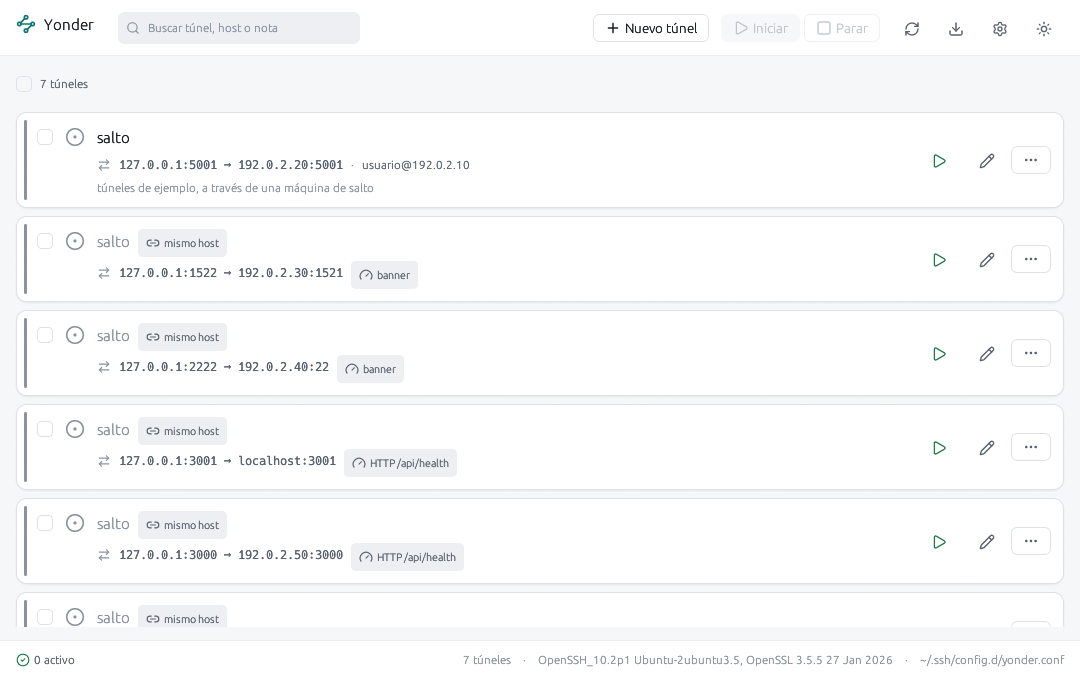
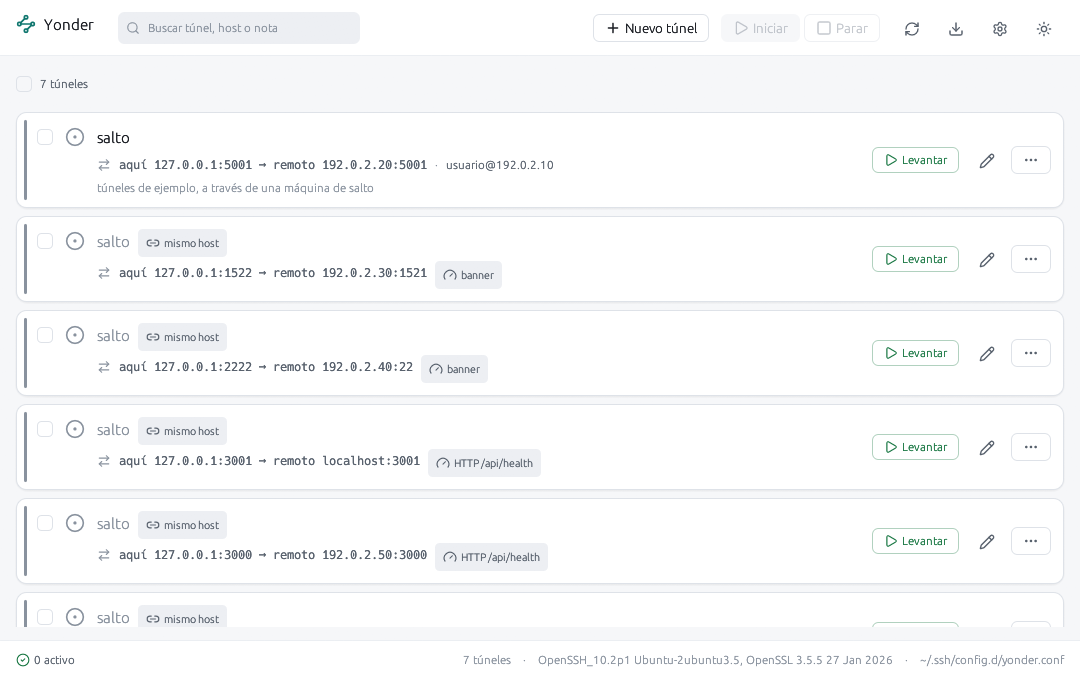
Nombra cada punta del reenvío y pone texto en los botones de fila
«127.0.0.1:3001 → localhost:3001» se lee como si los dos extremos fueran
esta máquina, cuando el de la derecha lo resuelve el servidor del otro
lado. La fila pasa a decir «aquí … → remoto …».

No se sustituye «localhost» por el nombre del host, que era la salida
cómoda: afirmaría que ese puerto es alcanzable en esa dirección, y con un
servicio enganchado a un alias de IP no tiene por qué serlo. Es justo la
distinción que separa un túnel sano de uno que abre el puerto sin
transportar nada, así que el valor literal del fichero se conserva y solo
se añade de quién es.

Va en un método aparte de «descripcion»: esa la consumen el registro y el
buscador, y meterle estas dos palabras haría que teclear «remoto»
encontrase todos los túneles.

Los botones de acción de la fila llevan ahora su palabra. Levantar y
bajar compartían un icono cuadrado cuyo significado solo aparecía en el
globo de ayuda, y una acción que hay que descubrir pasando el ratón por
encima es una acción que no está.

diff --git a/src/ui/lista.rs b/src/ui/lista.rs
@@ -234,7 +234,7 @@ fn fila(
                         iconos::PEQUENO,
                         tema.paleta.texto_tenue,
                     );
-                    ui.label(tema::mono(&tema, tunel.reenvio.descripcion()));
+                    ui.label(tema::mono(&tema, tunel.reenvio.descripcion_orientada()));
                     if tunel.reenvio.salud.atraviesa_el_tunel() {
                         // Que se vea qué se está comprobando: no es lo mismo
                         // «el puerto está abierto» que «el servicio responde».
@@ -381,57 +381,78 @@ fn acciones_de_fila(
 
     ui.add_space(tema.escala.xs);
 
+    // Las acciones llevan su palabra al lado del icono: en una lista de túneles
+    // el mismo cuadrado significa «baja este» o «deja de reintentar» según el
+    // estado, y eso no se adivina de un vistazo. La etiqueta es la corta; el
+    // matiz entero queda en el globo de ayuda.
     match estado.estado {
         Estado::Definido => {
-            if iconos::boton(ui, Icono::ARRANCAR, tema.paleta.exito, "Levantar").clicked() {
+            if widgets::boton_de_fila(ui, tema, Icono::ARRANCAR, tema.paleta.exito, "Levantar")
+                .on_hover_text("Abrir la conexión y establecer este reenvío")
+                .clicked()
+            {
                 acciones.push(Accion::Levantar(id));
             }
         }
         Estado::Fallido => {
-            if iconos::boton(ui, Icono::REINTENTAR, tema.paleta.error, "Reintentar ahora").clicked()
+            if widgets::boton_de_fila(ui, tema, Icono::REINTENTAR, tema.paleta.error, "Reintentar")
+                .on_hover_text("Reintentar ahora")
+                .clicked()
             {
                 acciones.push(Accion::Reintentar(id));
             }
         }
         Estado::Reintentando => {
-            if iconos::boton(
+            if widgets::boton_de_fila(
                 ui,
+                tema,
                 Icono::PARAR,
                 tema.paleta.texto_secundario,
-                "Dejar de intentarlo",
+                "Parar",
             )
+            .on_hover_text("Dejar de intentarlo")
             .clicked()
             {
                 acciones.push(Accion::Bajar(id.clone()));
             }
-            if iconos::boton(
-                ui,
-                Icono::RAYO,
-                tema.paleta.info,
-                "Reintentar ya, sin esperar",
-            )
-            .clicked()
+            if widgets::boton_de_fila(ui, tema, Icono::RAYO, tema.paleta.info, "Ahora")
+                .on_hover_text("Reintentar ya, sin esperar al siguiente intento")
+                .clicked()
             {
                 acciones.push(Accion::Reintentar(id));
             }
         }
         Estado::Degradado => {
-            if iconos::boton(ui, Icono::PARAR, tema.paleta.texto_secundario, "Bajar").clicked() {
+            if widgets::boton_de_fila(
+                ui,
+                tema,
+                Icono::PARAR,
+                tema.paleta.texto_secundario,
+                "Bajar",
+            )
+            .on_hover_text("Cerrar este reenvío")
+            .clicked()
+            {
                 acciones.push(Accion::Bajar(id.clone()));
             }
-            if iconos::boton(
-                ui,
-                Icono::REINTENTAR,
-                tema.paleta.aviso,
-                "Reparar el reenvío",
-            )
-            .clicked()
+            if widgets::boton_de_fila(ui, tema, Icono::REINTENTAR, tema.paleta.aviso, "Reparar")
+                .on_hover_text("Rehacer el reenvío sin cerrar la conexión")
+                .clicked()
             {
                 acciones.push(Accion::Reintentar(id));
             }
         }
         _ => {
-            if iconos::boton(ui, Icono::PARAR, tema.paleta.texto_secundario, "Bajar").clicked() {
+            if widgets::boton_de_fila(
+                ui,
+                tema,
+                Icono::PARAR,
+                tema.paleta.texto_secundario,
+                "Bajar",
+            )
+            .on_hover_text("Cerrar este reenvío")
+            .clicked()
+            {
                 acciones.push(Accion::Bajar(id));
             }
         }

diff --git a/src/modelo.rs b/src/modelo.rs
@@ -408,6 +408,44 @@ impl Reenvio {
             (_, None) => self.escucha.to_string(),
         }
     }
+
+    /// Como `descripcion`, pero nombrando en qué máquina se resuelve cada punta.
+    ///
+    /// «127.0.0.1:3001 → localhost:3001» se lee mal: los dos parecen este
+    /// equipo, cuando el de la derecha lo resuelve el servidor del otro lado.
+    /// Con un destino explícito la ambigüedad no existe; con `localhost` es
+    /// total, y es justo el caso en que equivocarse sale caro —un reenvío a
+    /// `localhost` cuando el servicio remoto escucha en un alias de IP deja el
+    /// puerto abierto sin transportar nada.
+    ///
+    /// No se sustituye `localhost` por el nombre del host, que sería lo cómodo:
+    /// diría que ese puerto es alcanzable en esa dirección, y muchas veces no
+    /// lo es. Se conserva el valor literal del fichero y se añade de quién es.
+    ///
+    /// Vive aparte de `descripcion` a propósito: esa la consumen el registro y
+    /// el buscador, y meterle estas dos palabras haría que teclear «remoto»
+    /// encontrara todos los túneles.
+    pub fn descripcion_orientada(&self) -> String {
+        match (&self.tipo, &self.destino) {
+            (TipoReenvio::Local, Some(destino)) => format!(
+                "aquí {}:{} → remoto {}",
+                self.escucha.direccion_efectiva(),
+                self.escucha.puerto,
+                destino
+            ),
+            // En un reenvío remoto las puntas están cambiadas: el puerto lo abre
+            // el servidor y el destino lo resuelve este equipo.
+            (TipoReenvio::Remoto, Some(destino)) => {
+                format!("remoto :{} → aquí {}", self.escucha.puerto, destino)
+            }
+            (TipoReenvio::Dinamico, _) => format!(
+                "SOCKS aquí en {}:{}",
+                self.escucha.direccion_efectiva(),
+                self.escucha.puerto
+            ),
+            (_, None) => self.escucha.to_string(),
+        }
+    }
 }
 
 /// De dónde sale la definición de un host.
@@ -596,6 +634,37 @@ mod pruebas {
         let r = Reenvio::analizar(TipoReenvio::Local, "127.0.0.1:8080 interno:80").unwrap();
         assert_eq!(r.escucha, Extremo::nuevo("127.0.0.1", 8080));
         assert_eq!(r.argumento(), "127.0.0.1:8080:interno:80");
+    }
+
+    #[test]
+    fn la_descripcion_orientada_dice_de_quien_es_cada_localhost() {
+        let r = Reenvio::analizar(TipoReenvio::Local, "3001 localhost:3001").unwrap();
+        // Sin orientar, las dos puntas parecen la misma máquina.
+        assert_eq!(r.descripcion(), "127.0.0.1:3001 → localhost:3001");
+        assert_eq!(
+            r.descripcion_orientada(),
+            "aquí 127.0.0.1:3001 → remoto localhost:3001"
+        );
+    }
+
+    #[test]
+    fn la_descripcion_orientada_conserva_el_destino_literal() {
+        // No se sustituye por el nombre del host: diría que ese puerto es
+        // alcanzable en esa dirección, y con un alias de IP no tiene por qué.
+        let r = Reenvio::analizar(TipoReenvio::Local, "3000 192.0.2.50:3000").unwrap();
+        assert_eq!(
+            r.descripcion_orientada(),
+            "aquí 127.0.0.1:3000 → remoto 192.0.2.50:3000"
+        );
+    }
+
+    #[test]
+    fn un_reenvio_remoto_tiene_las_puntas_cambiadas() {
+        let r = Reenvio::analizar(TipoReenvio::Remoto, "8080 localhost:3000").unwrap();
+        assert_eq!(
+            r.descripcion_orientada(),
+            "remoto :8080 → aquí localhost:3000"
+        );
     }
 
     #[test]

diff --git a/src/ui/widgets.rs b/src/ui/widgets.rs
@@ -180,6 +180,36 @@ pub fn boton_secundario(
     ui.add_enabled(activo, boton)
 }
 
+/// Botón de acción de una fila: icono con su palabra al lado.
+///
+/// En la lista el icono a secas no basta. Un cuadrado no dice si baja este
+/// túnel, si los baja todos o si deja de reintentar, y el globo de ayuda solo
+/// aparece si a alguien se le ocurre pasar el ratón por encima y esperar. La
+/// palabra cuesta anchura y se paga: es la diferencia entre una acción que se
+/// encuentra y otra que hay que descubrir.
+///
+/// El color lo pone quien llama, porque cada acción tiene el suyo —levantar es
+/// éxito, reparar es aviso, reintentar es error— y aquí no se decide.
+pub fn boton_de_fila(
+    ui: &mut egui::Ui,
+    tema: &Tema,
+    icono: Icono,
+    tinta: Color32,
+    texto: &str,
+) -> egui::Response {
+    let boton = egui::Button::image_and_text(
+        iconos::imagen(icono, iconos::PEQUENO, tinta),
+        egui::RichText::new(texto)
+            .size(tema.tipografia.pequeno)
+            .color(tinta),
+    )
+    .fill(Color32::TRANSPARENT)
+    .stroke(Stroke::new(1.0_f32, tinta.gamma_multiply(0.35)))
+    .corner_radius(CornerRadius::same(tema.radios.medio));
+
+    ui.add(boton)
+}
+
 /// Botón destructivo: contorno de error, relleno solo al pasar por encima.
 pub fn boton_destructivo(
     ui: &mut egui::Ui,

diff --git a/src/ui/modales.rs b/src/ui/modales.rs
@@ -580,7 +580,7 @@ fn importar(aplicacion: &mut Aplicacion, ui: &mut egui::Ui) -> bool {
                                 ui.label(tema::cuerpo(&tema, &host.alias));
                                 ui.label(tema::tenue(&tema, host.destino_completo()));
                                 for reenvio in &host.reenvios {
-                                    ui.label(tema::mono(&tema, reenvio.descripcion()));
+                                    ui.label(tema::mono(&tema, reenvio.descripcion_orientada()));
                                 }
                                 if let yonder::modelo::Origen::Ajeno(ruta) = &host.origen {
                                     ui.label(tema::tenue(&tema, yonder::rutas::abreviar(ruta)));
